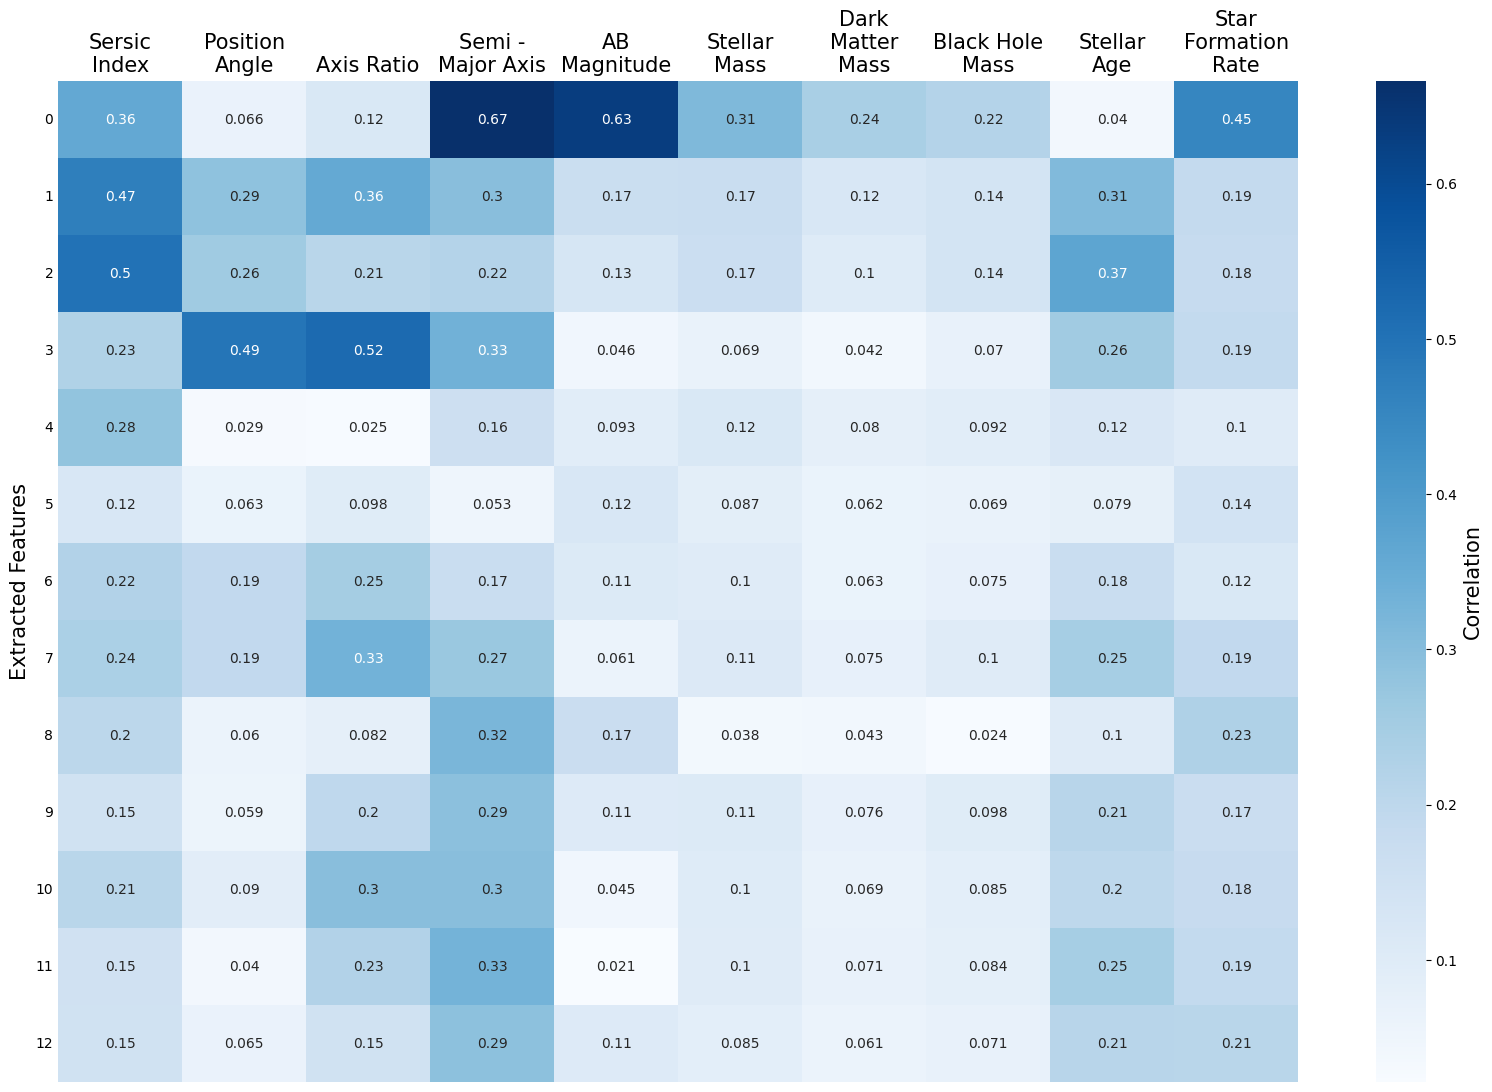
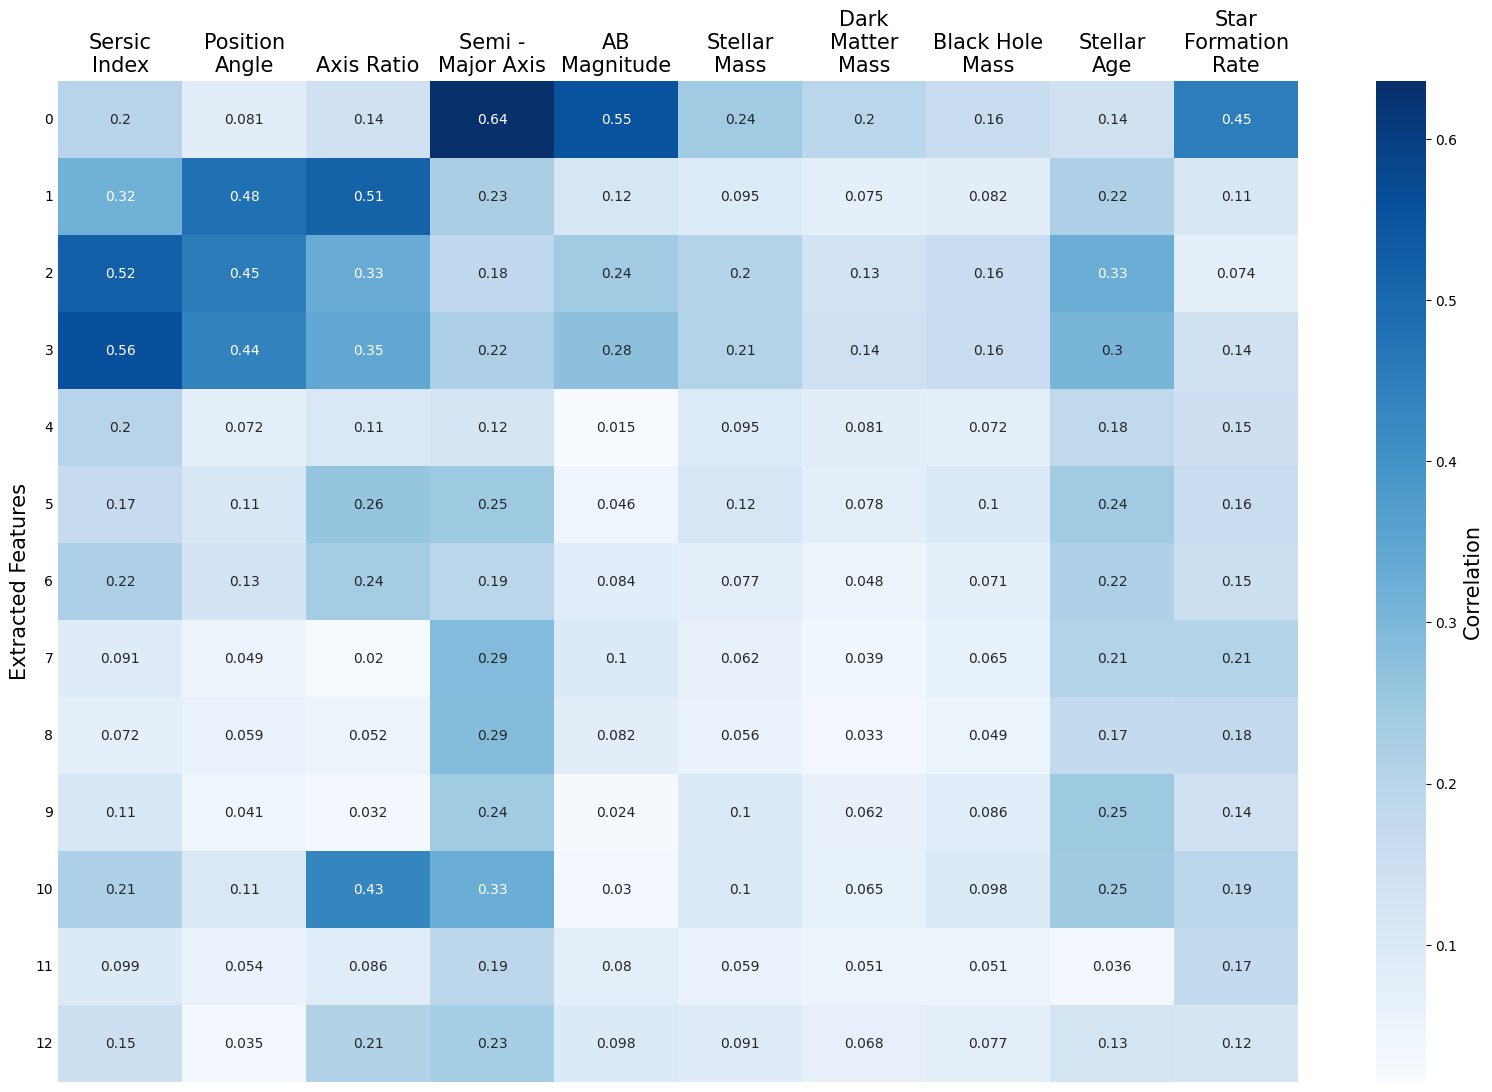
Code

diff --git a/comparison-clusters.py b/comparison-clusters.py
@@ -15,6 +15,9 @@ import random
 import textwrap
 
 
+
+
+
 pd.set_option('display.max_columns', None)
 pd.set_option('display.max_rows', None)
 pd.set_option('display.width', 1000)
@@ -22,9 +25,9 @@ pd.set_option('display.width', 1000)
 
 
 # set the encoding dimension (number of extracted features)
-encoding_dim = 20
+encoding_dim = 25
 
-run = 3
+run = 2
 
 # set the number of clusters
 n_clusters = 2
@@ -35,59 +38,122 @@ n_clusters = 2
 
 
 
-# # optimal clusters
-# model = AgglomerativeClustering()
-# visualizer = KElbowVisualizer(model, k=(2, 20))
-# visualizer.fit(chosen_features)
-# visualizer.show()
-
-
-
-
-
-
 # load structural and physical properties into dataframes
 structure_properties = pd.read_csv("Galaxy Properties/Eagle Properties/structure_propeties.csv", comment="#")
 physical_properties = pd.read_csv("Galaxy Properties/Eagle Properties/physical_properties.csv", comment="#")
 
-# account for the validation data and remove final 200 elements
-structure_properties.drop(structure_properties.tail(200).index, inplace=True)
-physical_properties.drop(physical_properties.tail(200).index, inplace=True)
+# # account for hte validation data and remove final 200 elements
+# structure_properties.drop(structure_properties.tail(200).index, inplace=True)
+# physical_properties.drop(physical_properties.tail(200).index, inplace=True)
 
 # dataframe for all properties
 all_properties = pd.merge(structure_properties, physical_properties, on="GalaxyID")
 
 
+print(len(all_properties))
 
 
-
-
-
-
-
-
-
-
-# load the extracted features
-extracted_features = np.load("Variational Eagle/Extracted Features/Normalised Individually/" + str(encoding_dim) + "_feature_300_epoch_features_" + str(run) + ".npy")[0]
-# extracted_features = np.load("Variational Eagle/Extracted Features/PCA/pca_features_15_features.npy")
-extracted_features_switch = extracted_features.T
-
-
+# find all bad fit galaxies
 bad_fit = all_properties[((all_properties["flag_r"] == 4) | (all_properties["flag_r"] == 1) | (all_properties["flag_r"] == 5))].index.tolist()
+# print(bad_fit)
 
+# remove those galaxies
 for i, galaxy in enumerate(bad_fit):
-    extracted_features = np.delete(extracted_features, galaxy-i, 0)
     all_properties = all_properties.drop(galaxy, axis=0)
 
+
+print(len(all_properties))
+
+
+
+
+
+# original dataset
+
+# # load the extracted features
+# extracted_features = np.load("Variational Eagle/Extracted Features/Normalised Individually/" + str(encoding_dim) + "_feature_300_epoch_features_" + str(run) + ".npy")[0]
+# # extracted_features = np.load("Variational Eagle/Extracted Features/PCA/pca_features_" + str(encoding_dim) + "_features.npy")
+# encoding_dim = extracted_features.shape[1]
+# extracted_features_switch = extracted_features.T
+#
+#
+# # # perform pca on the extracted features
+# # pca = PCA(n_components=11).fit(extracted_features)
+# # extracted_features = pca.transform(extracted_features)
+# # extracted_features_switch = extracted_features.T
+#
+#
+# # account for the training data in the dataframe
+# all_properties = all_properties.drop(all_properties.tail(200).index, inplace=True)
+
+
+
+
+
+
+# balanced dataset
+
+# load the extracted features
+extracted_features = np.load("Variational Eagle/Extracted Features/Balanced/" + str(encoding_dim) + "_feature_300_epoch_features_" + str(run) + ".npy")[0]
+encoding_dim = extracted_features.shape[1]
 extracted_features_switch = extracted_features.T
 
+print(extracted_features.shape)
 
 
 # perform pca on the extracted features
-pca = PCA(n_components=11).fit(extracted_features)
+pca = PCA(n_components=13).fit(extracted_features)
 extracted_features = pca.transform(extracted_features)
 extracted_features_switch = extracted_features.T
+
+
+# get the indices of the different types of galaxies (according to sersic index)
+spirals_indices = list(all_properties.loc[all_properties["n_r"] <= 2.5].index)
+unknown_indices = list(all_properties.loc[all_properties["n_r"].between(2.5, 4, inclusive="neither")].index)
+ellipticals_indices = list(all_properties.loc[all_properties["n_r"] >= 4].index)
+
+# sample the galaxies to balance the dataset (as we did when training the model)
+random.seed(1)
+chosen_spiral_indices = random.sample(spirals_indices, round(len(spirals_indices)/2))
+chosen_ellipticals_indices = [index for index in ellipticals_indices for _ in range(4)]
+chosen_indices = chosen_spiral_indices + unknown_indices + chosen_ellipticals_indices
+
+
+# reorder the properties dataframe to match the extracted features of the balanced dataset
+all_properties = all_properties.loc[chosen_indices]
+
+
+# get the randomly sampled testing set indices
+random.seed(2)
+test_indices = random.sample(range(0, len(chosen_indices)), 20)
+
+
+# flag the training set in the properties dataframe (removing individually effects the position of the other elements)
+for i in test_indices:
+    all_properties.iloc[i] = np.nan
+
+
+# remove the training set from the properties dataframe
+all_properties = all_properties.dropna()
+
+
+
+
+
+
+
+
+
+
+
+
+
+
+
+
+
+
+
 
 
 
@@ -503,9 +569,11 @@ order = med_df[order_property].sort_values(ascending=False).index.to_list()
 
 total = all_properties.shape[0]
 total_spiral = all_properties[all_properties["n_r"] <= 2.5].shape[0]
-total_elliptical = all_properties[all_properties["n_r"] > 2.5].shape[0]
+total_unknown = all_properties[all_properties["n_r"].between(2.5, 4, inclusive="neither")]
+total_elliptical = all_properties[all_properties["n_r"] >= 4].shape[0]
 
 print(str(total_spiral) + " Spirals (" + str(total_spiral/total) + ")")
+print(str(total_unknown) + " Unknown (" + str(total_unknown/total) + ")")
 print(str(total_elliptical) + " Ellipticals (" + str(total_elliptical/total) + ")")
 print()
 
@@ -526,10 +594,12 @@ order = med_df["n_r"].sort_values().index.to_list()
 for i in order:
     total_i = all_properties[all_properties["Cluster"] == i].shape[0]
     total_i_spiral = all_properties[((all_properties["Cluster"] == i) & (all_properties["n_r"] <= 2.5))].shape[0]
-    total_i_elliptical = all_properties[((all_properties["Cluster"] == i) & (all_properties["n_r"] > 2.5))].shape[0]
+    total_i_unknown = all_properties[((all_properties["Cluster"] == i) & (all_properties["n_r"].between(2.5, 4, inclusive="neither")))].shape[0]
+    total_i_elliptical = all_properties[((all_properties["Cluster"] == i) & (all_properties["n_r"] >= 4))].shape[0]
 
     print("Cluster " + str(i) + " - " + str(total_i))
     print("Cluster " + str(i) + " - " + str(total_i_spiral) + " Spirals (" + str(total_i_spiral / total_i) + ")")
+    print("Cluster " + str(i) + " - " + str(total_i_unknown) + " Unknown (" + str(total_i_unknown / total_i) + ")")
     print("Cluster " + str(i) + " - " + str(total_i_elliptical) + " Ellipticals (" + str(total_i_elliptical / total_i) + ")")
     print()
 

diff --git a/comparison-extracted_features.py b/comparison-extracted_features.py
@@ -19,7 +19,7 @@ pd.set_option('display.max_columns', None)
 pd.set_option('display.width', 500)
 
 
-encoding_dim = 15
+encoding_dim = 25
 run = 1
 
 
@@ -91,9 +91,10 @@ print(extracted_features.shape)
 
 
 # perform pca on the extracted features
-pca = PCA(n_components=13).fit(extracted_features)
-extracted_features = pca.transform(extracted_features)
-extracted_features_switch = extracted_features.T
+# pca = PCA(n_components=13).fit(extracted_features)
+# extracted_features = pca.transform(extracted_features)
+# extracted_features_switch = extracted_features.T
+
 
 # get the indices of the different types of galaxies (according to sersic index)
 spirals_indices = list(all_properties.loc[all_properties["n_r"] <= 2.5].index)
@@ -106,59 +107,23 @@ chosen_spiral_indices = random.sample(spirals_indices, round(len(spirals_indices
 chosen_ellipticals_indices = [index for index in ellipticals_indices for _ in range(4)]
 chosen_indices = chosen_spiral_indices + unknown_indices + chosen_ellipticals_indices
 
-# print(all_properties)
-# print(len(chosen_spiral_indices), len(unknown_indices), len(chosen_ellipticals_indices))
-# print(len(chosen_indices))
-
-
-print(len(chosen_indices))
-
-
 
 # reorder the properties dataframe to match the extracted features of the balanced dataset
 all_properties = all_properties.loc[chosen_indices]
-
-
-print(len(all_properties))
-
-
-# print(all_properties)
 
 
 # get the randomly sampled testing set indices
 random.seed(2)
 test_indices = random.sample(range(0, len(chosen_indices)), 20)
 
+
 # flag the training set in the properties dataframe (removing individually effects the position of the other elements)
 for i in test_indices:
     all_properties.iloc[i] = np.nan
 
+
 # remove the training set from the properties dataframe
 all_properties = all_properties.dropna()
-
-
-print(len(all_properties))
-
-
-# print(all_properties)
-# print(extracted_features.shape)
-
-
-
-
-
-# # find all bad fit galaxies
-# bad_fit = all_properties[((all_properties["flag_r"] == 4) | (all_properties["flag_r"] == 1) | (all_properties["flag_r"] == 5))].index.tolist()
-# # print(bad_fit)
-#
-# # remove those galaxies
-# for i, galaxy in enumerate(bad_fit):
-#     extracted_features = np.delete(extracted_features, galaxy-i, 0)
-#     all_properties = all_properties.drop(galaxy, axis=0)
-#
-# extracted_features_switch = extracted_features.T
-
-
 
 
 
@@ -259,7 +224,7 @@ wrap_labels(ax, 10)
 
 
 
-plt.savefig("Variational Eagle/Correlation Plots/balanced_" + str(encoding_dim) + "_feature_vae_pca_all_property_correlation_" + str(run), bbox_inches='tight')
+plt.savefig("Variational Eagle/Correlation Plots/balanced_" + str(encoding_dim) + "_feature_vae_all_property_correlation_" + str(run), bbox_inches='tight')
 # plt.savefig("Variational Eagle/Correlation Plots/individually_normalised_pca_all_property_correlation", bbox_inches='tight')
 plt.show()
 
@@ -305,7 +270,7 @@ for i, property in enumerate(properties):
         axs[feature][i].set_ylabel(None)
         axs[feature][i].tick_params(labelsize=12)
 
-plt.savefig("Variational Eagle/Correlation Plots/scatter_balanced_" + str(encoding_dim) + "_feature_vae_pca_all_property_correlation_" + str(run), bbox_inches='tight')
+plt.savefig("Variational Eagle/Correlation Plots/scatter_balanced_" + str(encoding_dim) + "_feature_vae_all_property_correlation_" + str(run), bbox_inches='tight')
 # plt.savefig("Variational Eagle/Correlation Plots/scatter_individually_normalised_pca_all_property_correlation", bbox_inches='tight')
 # plt.savefig("Variational Eagle/Correlation Plots/scatter_" + str(encoding_dim) + "_feature_all_property_correlation_p2", bbox_inches='tight')
 plt.show()

diff --git a/clustering-hierarchial.py b/clustering-hierarchial.py
@@ -16,24 +16,24 @@ from matplotlib import image as mpimg
 
 
 # set the encoding dimension (number of extracted features)
-encoding_dim = 20
+encoding_dim = 25
 
-run = 3
+run = 2
 
 # set the number of clusters
-n_clusters = 4
+n_clusters = 2
 
 # load the extracted features
-# extracted_features = np.load("Variational Eagle/Extracted Features/Balanced/" + str(encoding_dim) + "_feature_300_epoch_features_" + str(run) + ".npy")[0]
-extracted_features = np.load("Variational Eagle/Extracted Features/Normalised Individually/" + str(encoding_dim) + "_feature_300_epoch_features_" + str(run) + ".npy")[0]
+extracted_features = np.load("Variational Eagle/Extracted Features/Balanced/" + str(encoding_dim) + "_feature_300_epoch_features_" + str(run) + ".npy")[0]
+# extracted_features = np.load("Variational Eagle/Extracted Features/Normalised Individually/" + str(encoding_dim) + "_feature_300_epoch_features_" + str(run) + ".npy")[0]
 # extracted_features = np.load("Variational Eagle/Extracted Features/PCA/pca_features_15_features.npy")
 extracted_features_switch = extracted_features.T
 
 
 
 # perform pca on the extracted features
-# pca = PCA(n_components=13).fit(extracted_features)
-pca = PCA(n_components=11).fit(extracted_features)
+pca = PCA(n_components=4).fit(extracted_features)
+# pca = PCA(n_components=11).fit(extracted_features)
 extracted_features = pca.transform(extracted_features)
 extracted_features_switch = extracted_features.T
 
